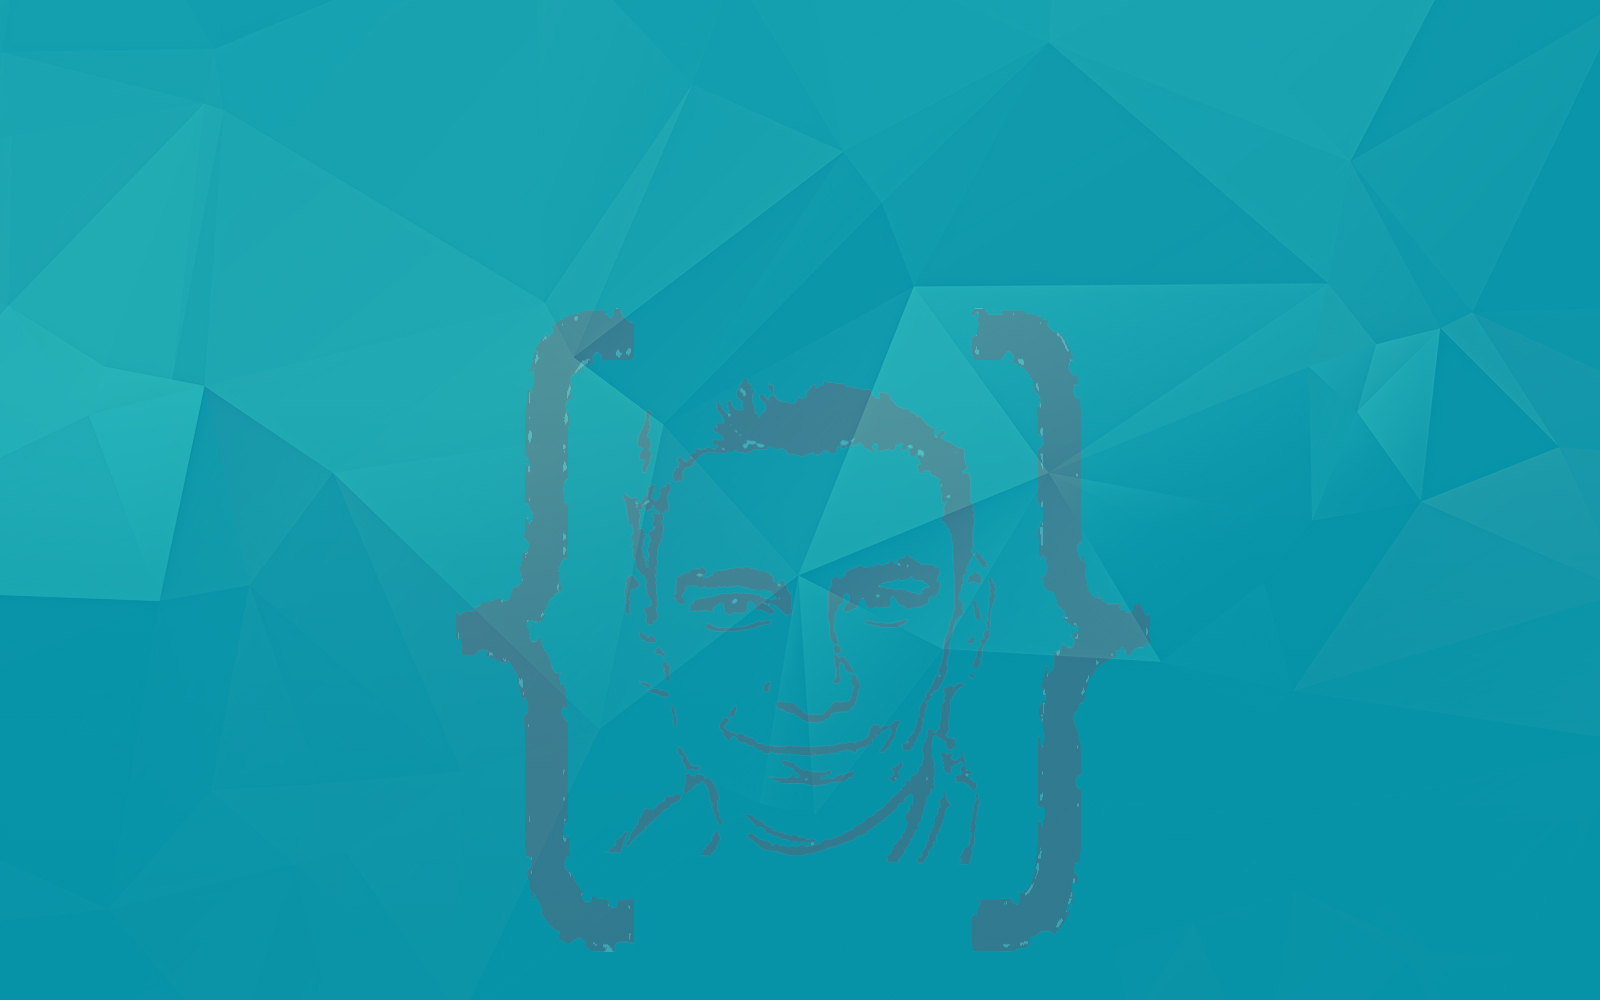
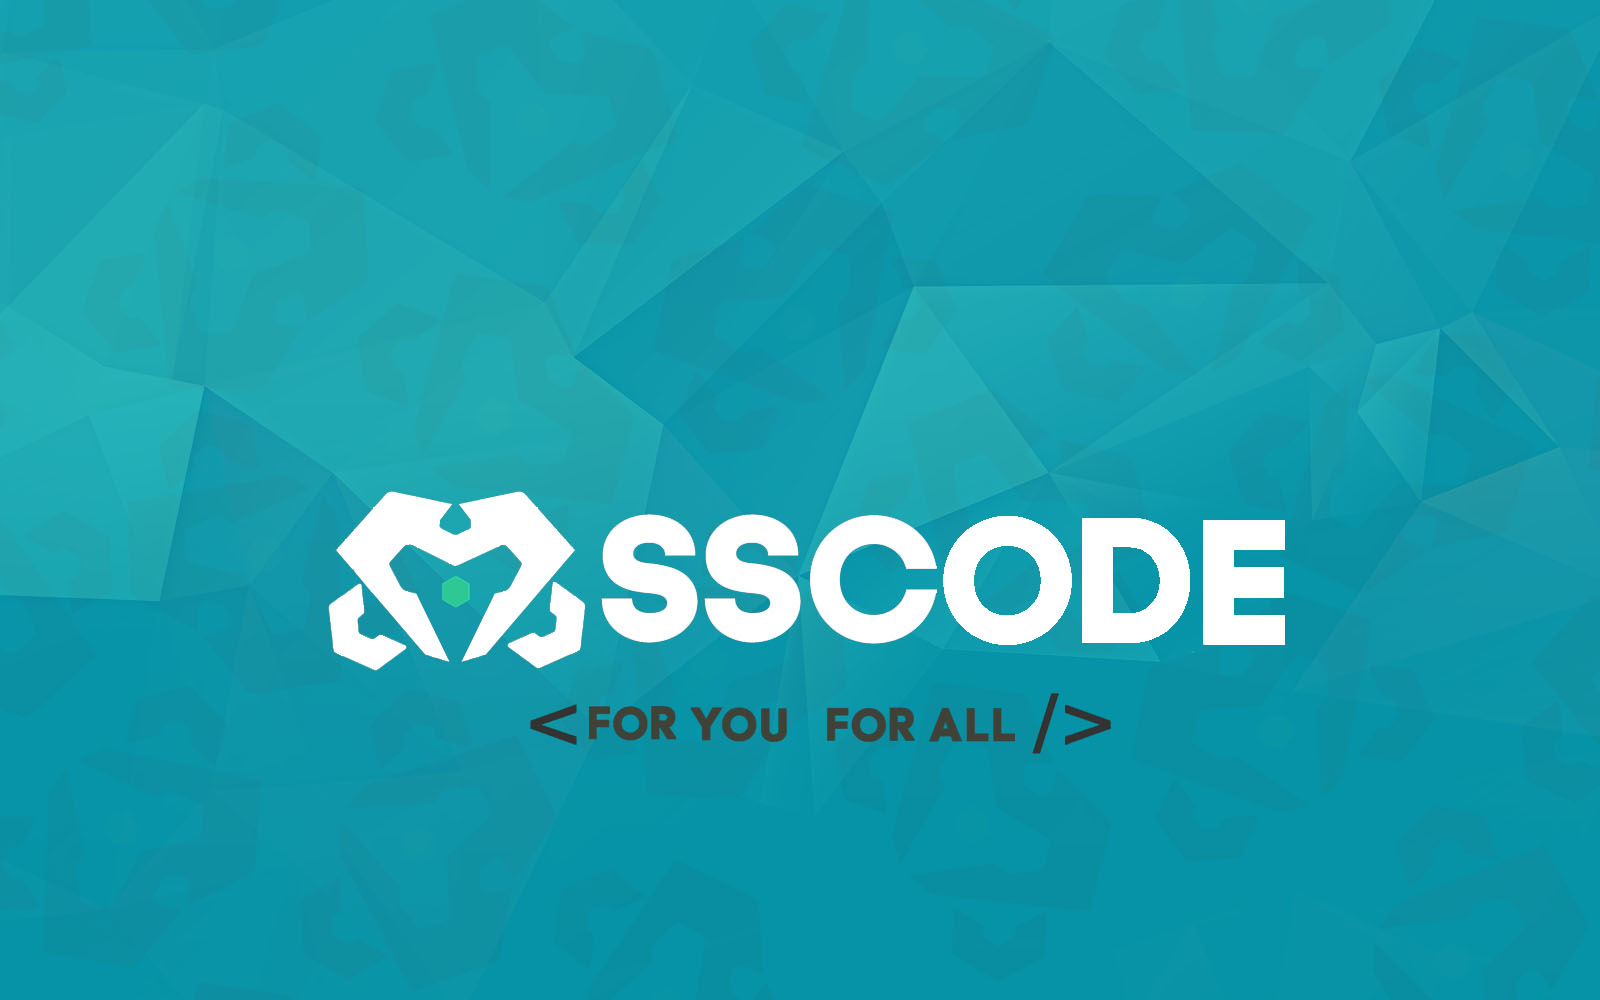
update headeblog

Changed region(s): [[0.1875, 0.31, 0.8125, 0.961]]

diff --git a/css/landio.css b/css/landio.css
@@ -9388,7 +9388,7 @@ body {
 .jumbotron {
     padding-top: 7rem;
     margin-bottom: 0;
-    background: #00BCD4 url(../img/bg-header.jpg) no-repeat center bottom;
+    background: #00BCD4 url(../img/bg-headeprofile.jpg) no-repeat center bottom;
     background-size: cover;
     border-radius: 0
 }

diff --git a/_includes/headerblog.html b/_includes/headerblog.html
@@ -1,0 +1,7 @@
+<!-- Hero Section
+================================================== -->
+
+<header class="jumbotron bg-inverse text-xs-center center-vertically" role="banner">
+  <div class="container">
+  </div>
+</header>

diff --git a/_layouts/homeblog.html b/_layouts/homeblog.html
@@ -3,5 +3,5 @@ layout: defaultblog
 ---
 
 
-{% include header.html %}
+{% include headerblog.html %}
 {% include frontdrupalnotes.html %}
